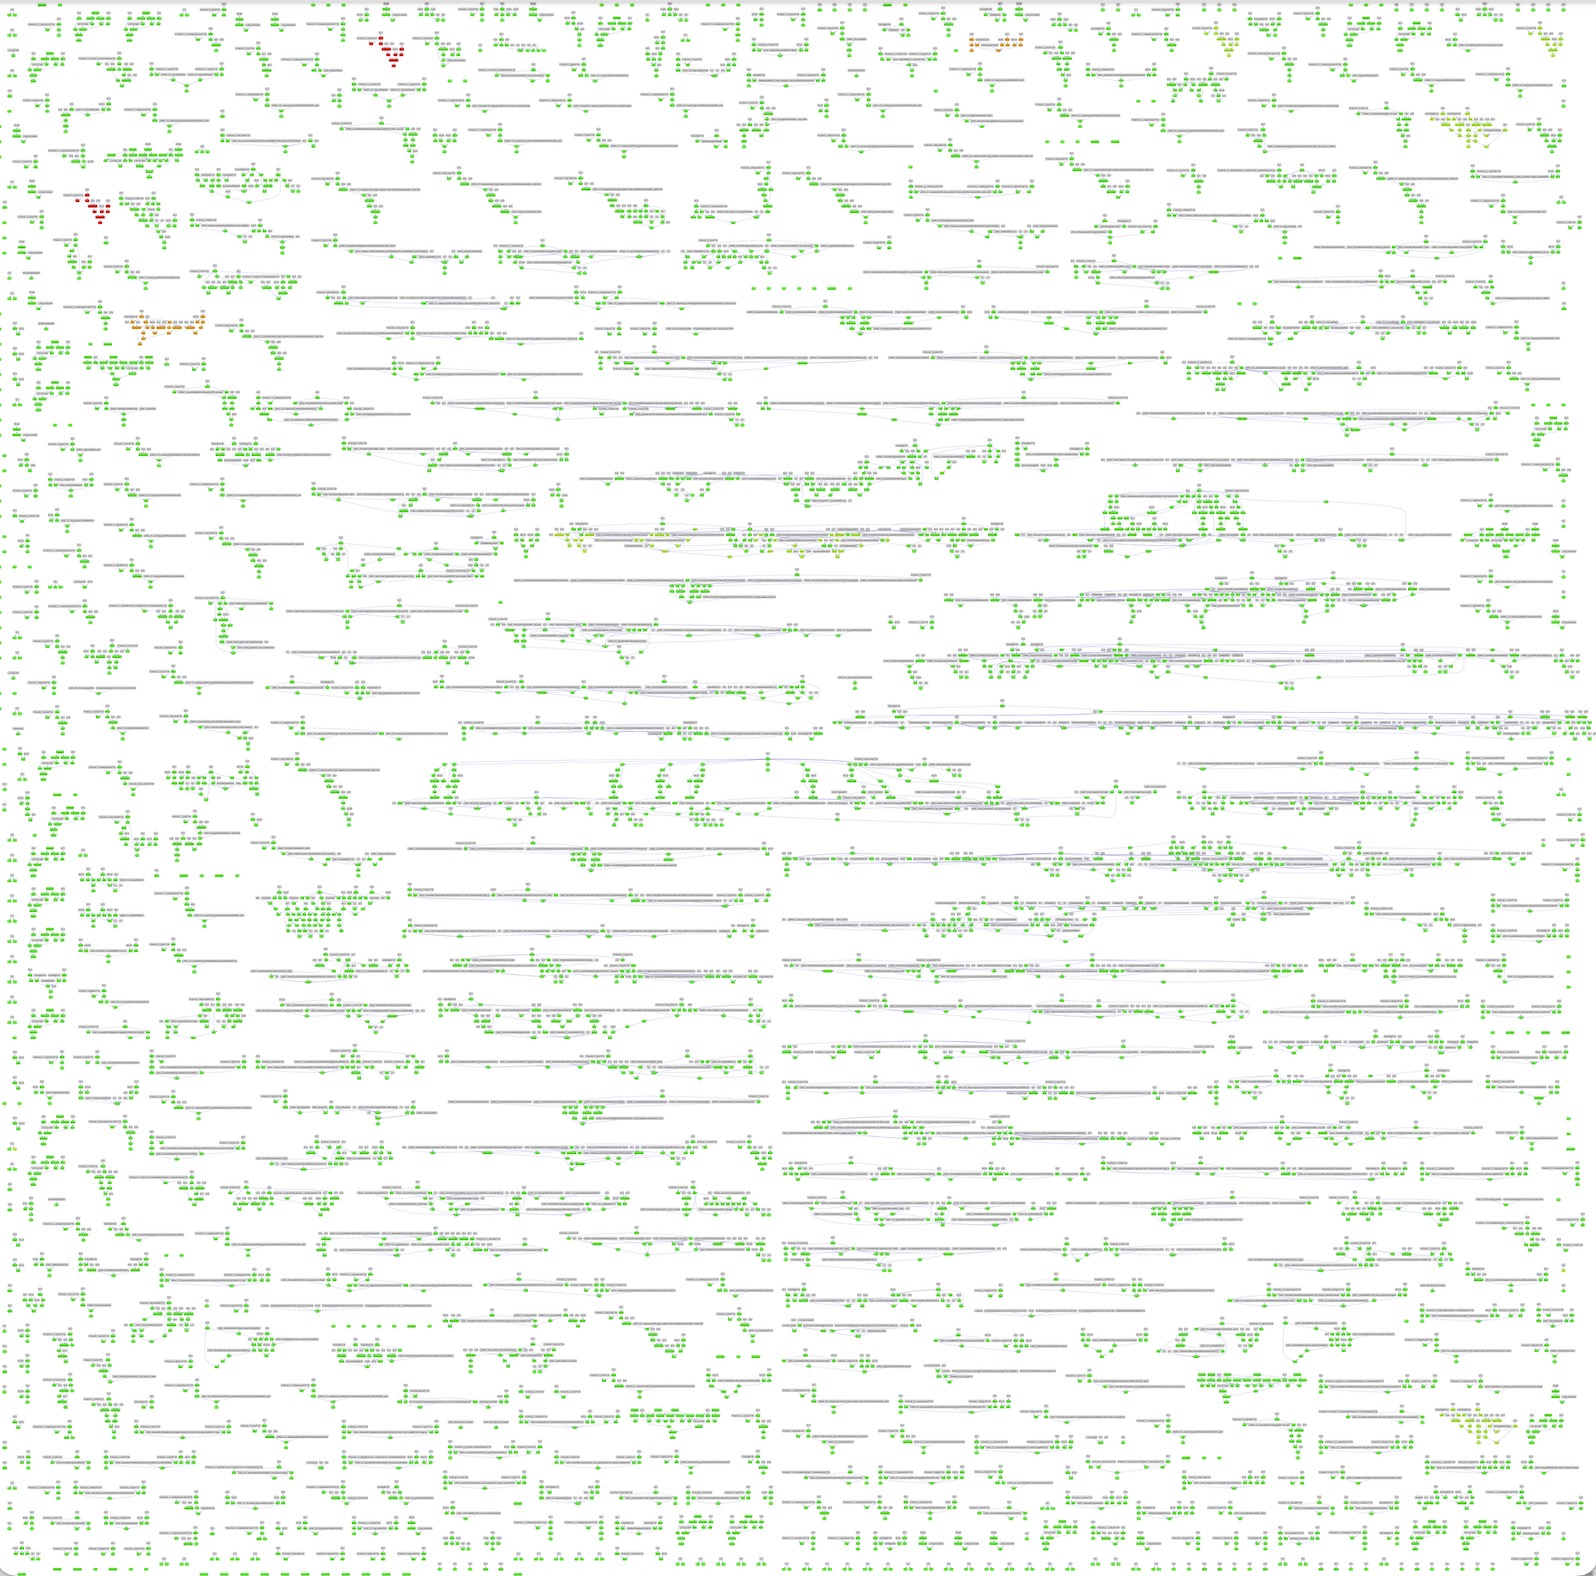
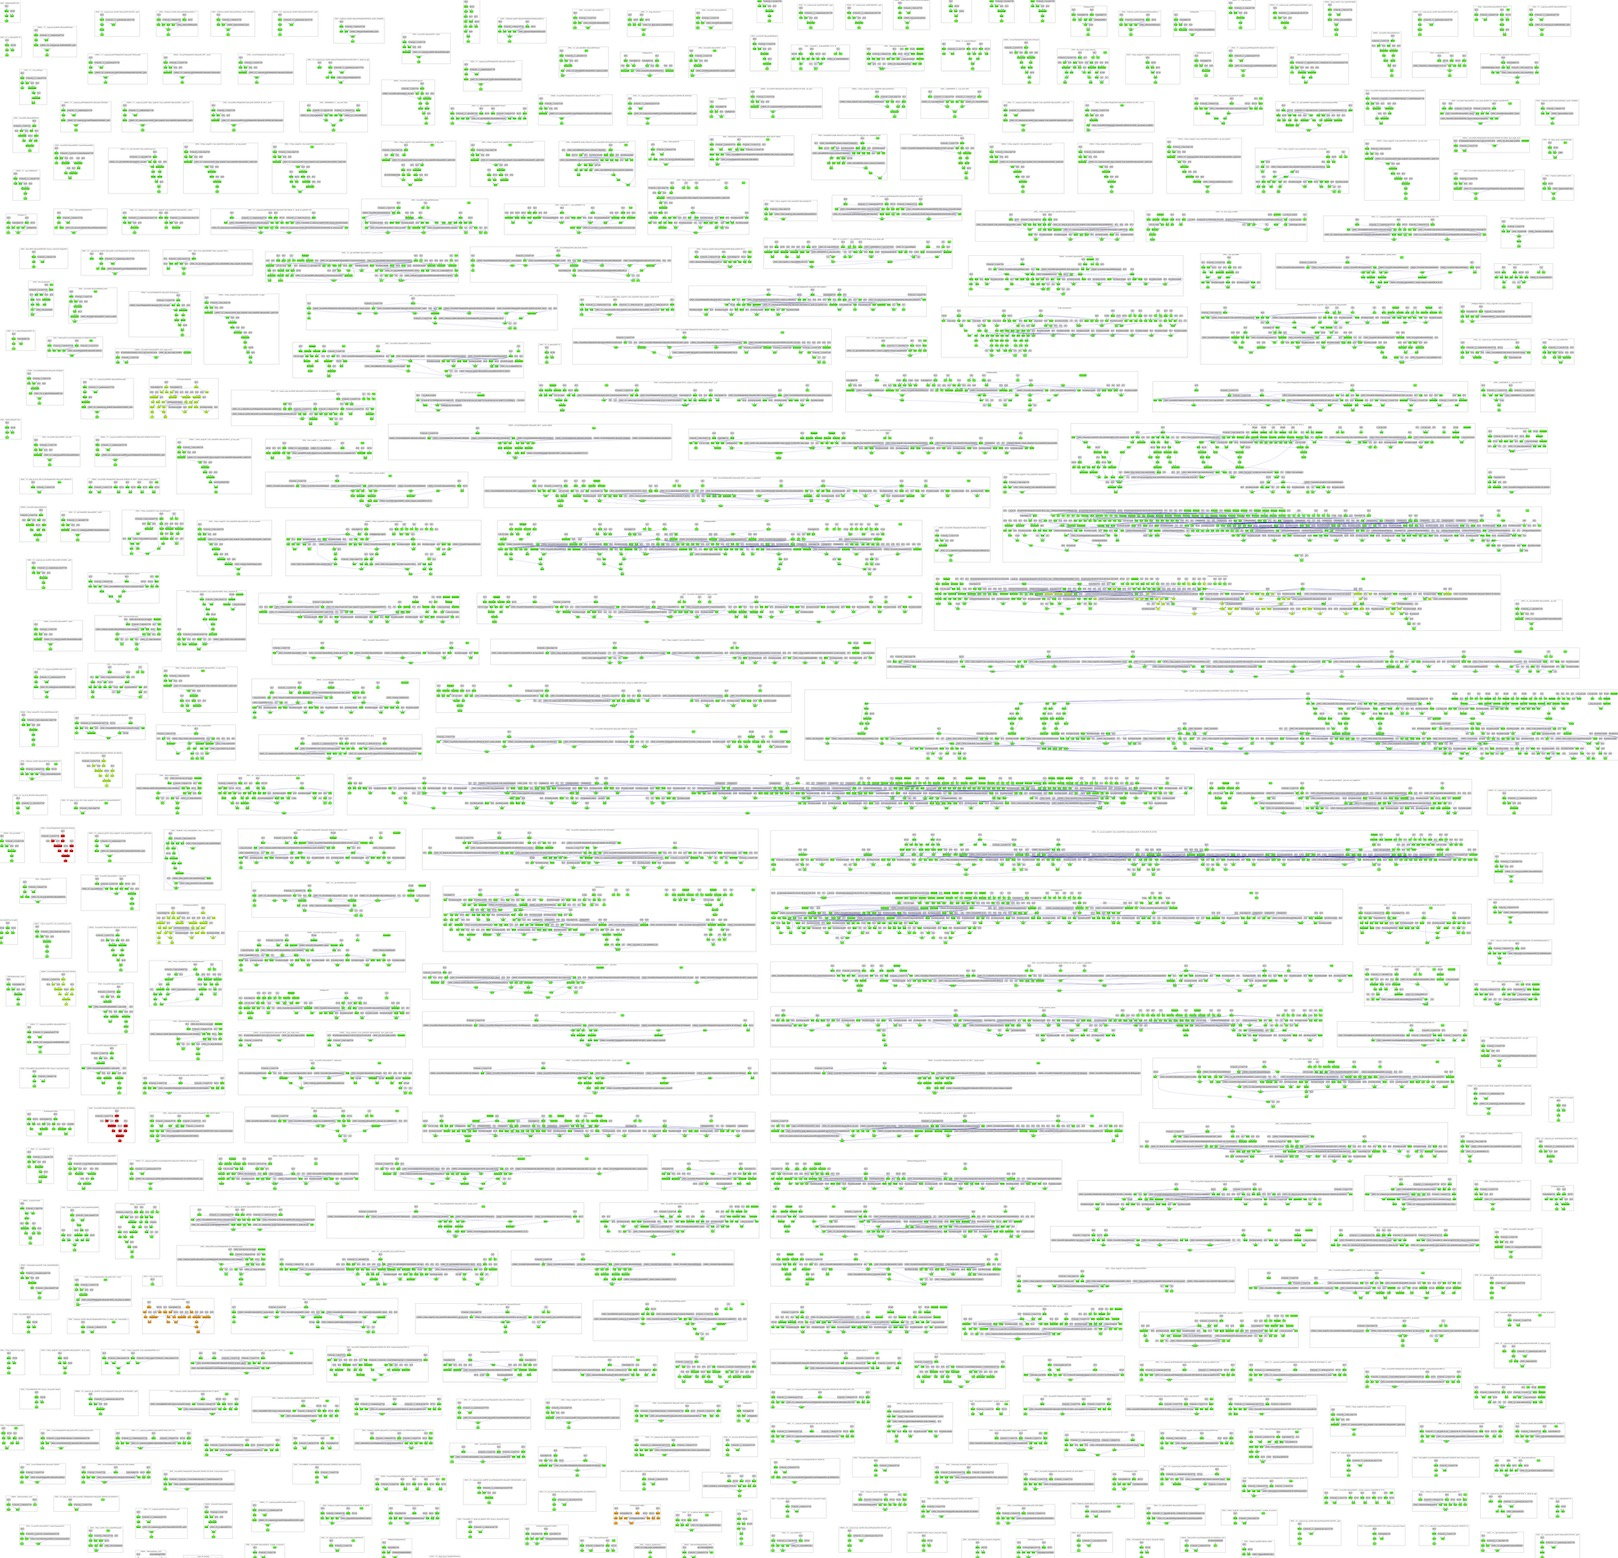
new example

Changed region(s): [[0.0, 0.0, 1.0, 1.0]]

diff --git a/src/Pass.cpp b/src/Pass.cpp
@@ -135,8 +135,14 @@ namespace {
     }
 
     virtual bool runOnFunction(Function& F) {
+
+      std::string func_name = F.hasName() ? F.getName().str() : "unnamed_func";
+      graph_.startSubgraph(func_name);
+
       for (auto& B : F) {
         // Basic Block iterations
+        //graph_.startSubgraph(getBasicBlockLabel(&B));
+
         for (auto& I : B) {
           // Instruction iterations
           logInstruction(F, I);
@@ -150,7 +156,12 @@ namespace {
             constructEdge(op, I);
           }
         }
+
+        //graph_.endSubgraph();
       }
+
+      graph_.endSubgraph();
+
       return true;
     }
   };

diff --git a/src/GraphBuilder.cpp b/src/GraphBuilder.cpp
@@ -44,4 +44,19 @@ void GraphBuilder::constructEdge(const NodeId start, const NodeId end) {
   dot_stream_ << start << " -> " << end << "\n";
 }
 
+void GraphBuilder::startSubgraph(const std::string& label) {
+  std::string name = nameInDotFormat(label);
+
+  dot_stream_ << "subgraph cluster_" << name << " {\n"
+                 "label=\"" << name << "\";\n"
+                 "color=\"black\";\n"
+                 "style=\"solid\";\n"
+                 "fontsize=20;\n";
+
+}
+
+void GraphBuilder::endSubgraph() {
+  dot_stream_ << "}\n";
+}
+
 } // namespace visual

diff --git a/include/GraphBuilder.hpp b/include/GraphBuilder.hpp
@@ -23,6 +23,9 @@ class GraphBuilder {
   void defineNode(const NodeId id, const std::string& label);
   void constructEdge(const NodeId start, const NodeId end);
 
+  void startSubgraph(const std::string& label);
+  void endSubgraph();
+
  private:
   std::ofstream dot_stream_;
 };

diff --git a/examples/tasks/HelloWorld.cpp b/examples/tasks/HelloWorld.cpp
@@ -1,0 +1,9 @@
+#include <iostream>
+
+// simple example
+
+int main() {
+  std::cout << "Hello, world!\n";
+  
+  return 0;
+}
